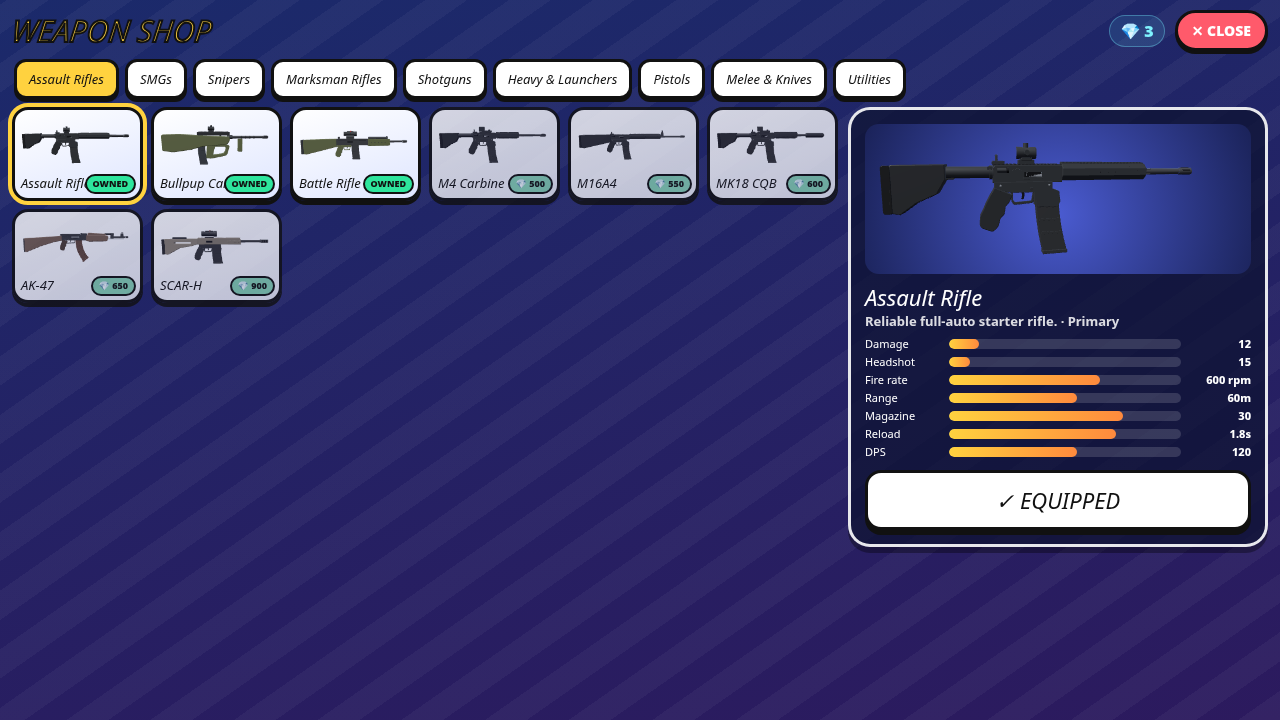
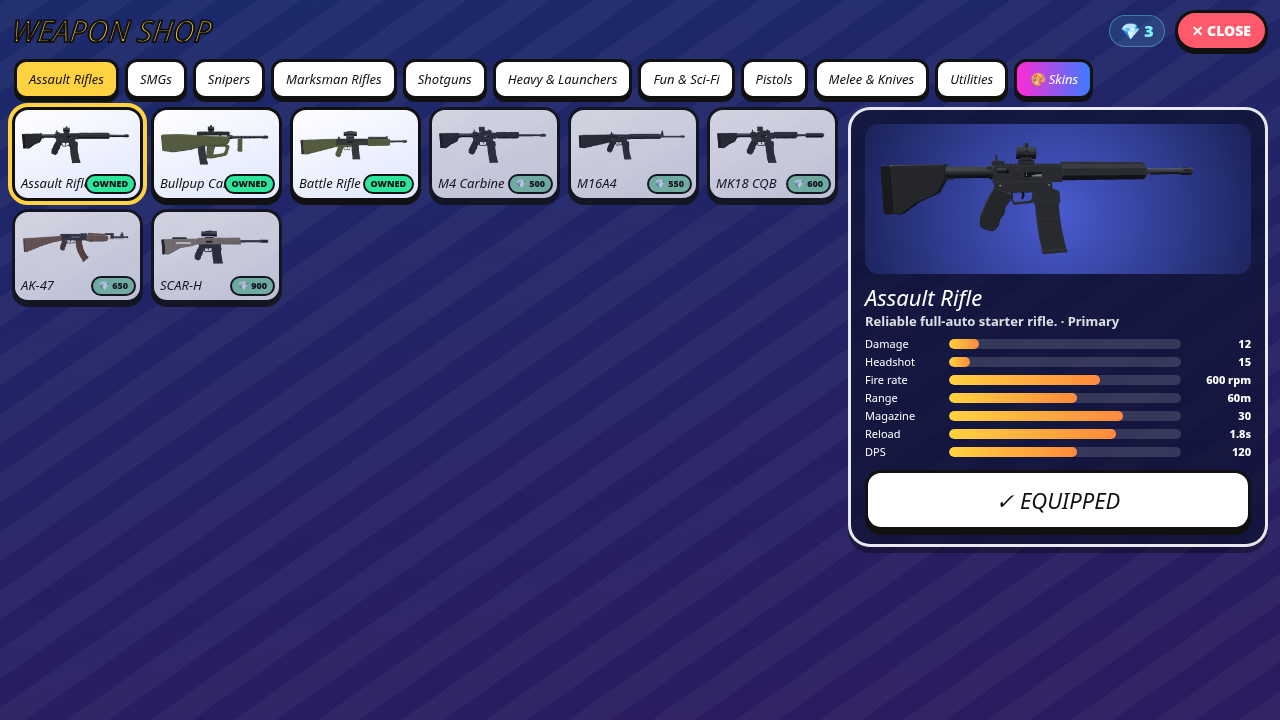
Friends: own storage key+backup with merge (no wallet overwrite), pending/added confirmations, retry delivery, presence backoff, persist(); Skins: cheaper, featured animated row, auto-equip, no fists, richer low-quality fallback; SW update forcing; SW v20

Changed region(s): [[0.5, 0.0611, 0.875, 0.1528]]

diff --git a/game.js b/game.js
@@ -1,6 +1,6 @@
 // HeadShotz – free browser multiplayer FPS. Three.js + PeerJS (host-authoritative star).
 import {THREE,FX,TX,MC,G,mergeParts,GQ,texMat,swapMats,WT,GRASS_T,scatterGrass,makeSky,RET,GLASS,camoTex} from './gfx.js';
-import {WSKINS,WSKIN_IDS,applySkin,tickSkins,clearSkinCache} from './wskins.js';
+import {WSKINS,WSKIN_IDS,WSKIN_FEAT,applySkin,tickSkins,clearSkinCache} from './wskins.js';
 import {Post} from './post.js';
 import {TURN} from './ice.js';
 import {MAPS,buildMap,HUB_PADS,HUB_ST,HUB_I,padCircles} from './maps.js';
@@ -68,7 +68,7 @@ let lastTouchEnd=0;document.addEventListener('touchend',e=>{const n=Date.now();i
 const isIOS=/iP(hone|ad|od)/.test(navigator.userAgent)||(navigator.platform==='MacIntel'&&navigator.maxTouchPoints>1);
 const standalone=navigator.standalone||matchMedia('(display-mode: standalone)').matches||matchMedia('(display-mode: fullscreen)').matches;
 if(isIOS&&!standalone)$('iosTip').classList.remove('hidden');
-if('serviceWorker' in navigator&&location.protocol==='https:')navigator.serviceWorker.register('sw.js').catch(()=>{});
+if('serviceWorker' in navigator&&location.protocol==='https:'){navigator.serviceWorker.register('sw.js',{updateViaCache:'none'}).then(r=>{r.update().catch(()=>{});setInterval(()=>r.update().catch(()=>{}),15*60000)}).catch(()=>{});let swR=false;const had=!!navigator.serviceWorker.controller;navigator.serviceWorker.addEventListener('controllerchange',()=>{if(!had||swR)return;swR=true;const go=()=>{if(!inGame)location.reload();else setTimeout(go,5000)};go()})}
 // ---------------- audio ----------------
 let AC=null,noiseBuf=null,master=null,verb=null;
 function audioInit(){if(AC){if(AC.state==='suspended')AC.resume();return}try{AC=new(window.AudioContext||window.webkitAudioContext)();
@@ -328,7 +328,8 @@ const UPG={mag:{name:'Extended Mag',per:.15,cost:[200,450]},reload:{name:'Fast H
 const WALLET_V=3;const PROG=(()=>{const base={v:WALLET_V,dia:0,owned:[],upg:{},camo:{},camos:{},skin:'default',skins:['default'],wskin:{},wskins:{},fr:null};let w=null;try{w=JSON.parse(LS('wallet')||'null')}catch(e){}
  if(!w||!w.v){let old={};try{old=JSON.parse(LS('prog')||'{}')||{}}catch(e){}w=Object.assign({},old,w||{});}
  const P=Object.assign(base,w);P.v=WALLET_V;P.dia=Math.max(0,P.dia|0);for(const k of['owned','skins'])if(!Array.isArray(P[k]))P[k]=[];for(const k of['upg','camo','camos','wskin','wskins'])if(!P[k]||typeof P[k]!=='object'||Array.isArray(P[k]))P[k]={};
- if(!P.fr||!P.fr.code){const A='ABCDEFGHJKLMNPQRSTUVWXYZ23456789';let c='';for(let i=0;i<8;i++)c+=A[Math.random()*A.length|0];P.fr={code:c.slice(0,4)+'-'+c.slice(4),list:[],inc:[],out:[]}}for(const k of['list','inc','out'])if(!Array.isArray(P.fr[k]))P.fr[k]=[];if(!P.skins.includes('default'))P.skins.push('default');LSS('wallet',JSON.stringify(P));return P})();
+if(!P.skins.includes('default'))P.skins.push('default');LSS('wallet',JSON.stringify(P));return P})();
+
 function saveProg(){PROG.v=WALLET_V;LSS('wallet',JSON.stringify(PROG));updDiaUI()}
 addEventListener('storage',e=>{if(e.key===LSP+'wallet'&&e.newValue){try{Object.assign(PROG,JSON.parse(e.newValue));updDiaUI()}catch(x){}}});
 const owns=id=>!W[id].price||PROG.owned.includes(id);
@@ -669,15 +670,15 @@ function renderArsenal(){const cls=CLASSES.filter(c=>arsMode!=='upgrade'||c.id!=
 // ---- weapon skins (per weapon): buy with diamonds, equip; shown on view model, preview and third-person guns ----
 let wskSel=null;const ownsSkin=(id,k)=>k==='default'||(PROG.wskins[id]||[]).includes(k);
 function sendWS(){if(inGame&&!C.hub)send({t:'ws',ws:cleanWS(PROG.wskin)})}
-function renderSkins(){const list=Object.values(W).filter(w=>w.cls!=='util'&&owns(w.id));$('arsDetail').classList.remove('hidden');
+function renderSkins(){const list=Object.values(W).filter(w=>w.cls!=='util'&&w.id!=='fists'&&owns(w.id));$('arsDetail').classList.remove('hidden');
  if(!arsSel||!list.some(w=>w.id===arsSel))arsSel=(list.find(w=>w.id===me.load[me.cur])||list.find(w=>me.load.includes(w.id))||list[0]).id;
- const cur=id=>PROG.wskin[id]||'default';if(!wskSel||!WSKINS[wskSel])wskSel=cur(arsSel);
+ const cur=id=>PROG.wskin[id]||'default';if(!wskSel||!WSKINS[wskSel]){wskSel=cur(arsSel);if(wskSel==='default')wskSel=WSKIN_FEAT[0]}
  $('arsGrid').innerHTML=list.map(w=>{const k=cur(w.id);return`<button class="wc${w.id===arsSel?' sel':''}" data-w="${w.id}"><img src="${ICON[w.id]||''}">${w.name}<span class="eq skinEq" style="background:${WSKINS[k][3]}">${WSKINS[k][0]}</span></button>`}).join('');
  const w=W[arsSel];$('arsName').textContent=w.name+' · '+WSKINS[wskSel][0];$('arsDesc').textContent=(WSKINS[wskSel][4]?'✨ Animated premium skin. ':'')+'Cosmetic only — everyone sees it on your gun.';$('arsStats').innerHTML='';
- $('arsUpg').innerHTML='<div class="wskins">'+WSKIN_IDS.map(k=>{const[n,p,,css,prem]=WSKINS[k];const o=ownsSkin(w.id,k);return`<button class="wsk${k===wskSel?' sel':''}${cur(w.id)===k?' on':''}${prem?' prem':''}" data-act="wsk" data-k="${k}"><span class="sw${prem?' anim':''}" style="background:${css}"></span><small>${n}</small><em>${cur(w.id)===k?'✓ ON':o?'OWNED':'💎'+p}</em></button>`}).join('')+'</div>';
+ const btn=k=>{const[n,p,,css,prem]=WSKINS[k];const o=ownsSkin(w.id,k);return`<button class="wsk${k===wskSel?' sel':''}${cur(w.id)===k?' on':''}${prem?' prem':''}" data-act="wsk" data-k="${k}"><span class="sw${prem?' anim':''}" style="background:${css}"></span><small>${n}</small><em>${cur(w.id)===k?'✓ ON':o?'OWNED':'💎'+p}</em></button>`};$('arsUpg').innerHTML='<div class="cardHead sm">✨ FEATURED · ANIMATED</div><div class="wskins feat">'+WSKIN_FEAT.map(btn).join('')+'</div><div class="cardHead sm">ALL SKINS</div><div class="wskins">'+WSKIN_IDS.filter(k=>!WSKINS[k][4]).map(btn).join('')+'</div>';
  const b=$('arsEquip');const o=ownsSkin(w.id,wskSel),p=WSKINS[wskSel][1];b.classList.remove('poor');
  if(!o){b.dataset.act='buywsk';b.textContent=PROG.dia>=p?`BUY 💎 ${p}`:`NEED 💎 ${p-PROG.dia} MORE`;b.classList.toggle('poor',PROG.dia<p);b.classList.add('yellow')}
- else{const on=cur(w.id)===wskSel;b.dataset.act='eqwsk';b.textContent=on?'✓ EQUIPPED':'EQUIP SKIN';b.classList.toggle('yellow',!on)}
+ else{const on=cur(w.id)===wskSel;b.dataset.act='eqwsk';b.textContent=on?(wskSel==='default'?'✓ FACTORY FINISH':'✓ EQUIPPED ON '+w.name.toUpperCase()):'EQUIP SKIN';b.classList.toggle('yellow',!on)}
  startPreview(arsSel,wskSel==='default'?null:wskSel)}
 function setWSkin(id,k){if(k==='default')delete PROG.wskin[id];else PROG.wskin[id]=k;saveProg();if(me.load[me.cur]===id&&inGame)setViewModel(id);sendWS()}
 function equip(w){me.load[w.slot]=w.id;LSS('load2',JSON.stringify(me.load));renderLoadoutMini();if(inGame&&!C.hub)feed(`${w.name} equipped — active on next spawn`);if(C.hub)hubEquip()}
@@ -1151,8 +1152,28 @@ addEventListener('keydown',e=>{if(e.code==='KeyE'&&C.phase==='hub'&&!$('stationB
 // Every save has a friend code (PROG.fr.code). While the game is open, the page registers a presence peer whose id is derived
 // from that code (PREFIX+'fr-'+code). Friends connect to it briefly to send requests/accepts/removals and to ask for status
 // (menu / hub / lobby / match with mode+map, room code, player count). No backend: unreachable presence = Offline.
-const FR=PROG.fr;const frPid=c=>PREFIX+'fr-'+String(c).replace(/[^A-Z0-9]/g,'');const normCode=c=>{c=String(c||'').toUpperCase().replace(/[^A-Z0-9]/g,'');return c.length===8?c.slice(0,4)+'-'+c.slice(4):null};
-let frPeer=null,frStat={},frPollT=null,frOpen=false;
+const frPid=c=>PREFIX+'fr-'+String(c).replace(/[^A-Z0-9]/g,'');const normCode=c=>{c=String(c||'').toUpperCase().replace(/[^A-Z0-9]/g,'');return c.length===8?c.slice(0,4)+'-'+c.slice(4):null};
+// Friends live under their OWN storage key (+ a backup key), never inside the wallet, so no other save can overwrite them.
+// Every write first re-reads storage and merges (newest entry per friend code wins; removals are kept as tombstones), so a stale
+// tab / back-forward-cached page / second window can't wipe newer data.
+const FRK='friends',FRB='friends_bak';const CATS=['list','inc','out'];
+function frRead(){for(const k of[FRK,FRB]){try{const o=JSON.parse(LS(k)||'null');if(o&&normCode(o.code))return o}catch(e){}}return null}
+function frMergeInto(d,s){if(!s)return d;if(normCode(s.code))d.code=s.code;d.rm=d.rm||{};for(const k in(s.rm||{}))d.rm[k]=Math.max(d.rm[k]||0,s.rm[k]);
+ const best={};for(const src of[d,s])for(const c of CATS)for(const e of(src[c]||[])){const code=normCode(e.code);if(!code)continue;const t=e.t||0;if(!best[code]||t>best[code].e.t||((t===best[code].e.t)&&CATS.indexOf(c)<CATS.indexOf(best[code].c)))best[code]={c,e:{...e,code,t}}}
+ for(const c of CATS)d[c]=[];for(const code in best){const{c,e}=best[code];if((d.rm[code]||0)>=e.t)continue;d[c].push(e)}return d}
+const FR=(()=>{let f=frRead();const w=PROG.fr;if(!f){f=w&&normCode(w.code)?{code:w.code,list:(w.list||[]).map(e=>({...e,t:1})),inc:(w.inc||[]).map(e=>({...e,t:1})),out:(w.out||[]).map(e=>({...e,t:1})),rm:{}}:null}
+ if(!f){const code=normCode(PROG.frCode)||(()=>{const A='ABCDEFGHJKLMNPQRSTUVWXYZ23456789';let c='';for(let i=0;i<8;i++)c+=A[Math.random()*A.length|0];return c.slice(0,4)+'-'+c.slice(4)})();f={code,list:[],inc:[],out:[],rm:{}}}
+ frMergeInto(f,{});return f})();
+delete PROG.fr;PROG.frCode=FR.code;
+let frPeer=null,frStat={},frPollT=null,frOpen=false,frBack=2000;
+setTimeout(()=>{frWrite();saveProg()},0);
+function frWrite(){const cur=frRead();if(cur&&cur.code!==FR.code&&normCode(cur.code))FR.code=cur.code;frMergeInto(FR,cur);const j=JSON.stringify({v:1,code:FR.code,list:FR.list,inc:FR.inc,out:FR.out,rm:FR.rm,at:Date.now()});LSS(FRK,j);LSS(FRB,j);if(PROG.frCode!==FR.code){PROG.frCode=FR.code;saveProg()}}
+function frReload(){frMergeInto(FR,frRead());if(frOpen)renderFriends();updFrBadge()}
+const frFind=(arr,c)=>arr.findIndex(f=>f.code===c);const frCat=c=>CATS.find(k=>frFind(FR[k],c)>=0)||null;
+// set a friend's state (list / inc / out) or remove (null); saved immediately
+function frSet(code,cat,name,extra){frWrite();const old=CATS.map(k=>FR[k][frFind(FR[k],code)]).find(Boolean);for(const k of CATS){const i=frFind(FR[k],code);if(i>=0)FR[k].splice(i,1)}
+ const now=Math.max(Date.now(),(old&&old.t||0)+1);if(cat)FR[cat].push({code,name:String(name||old&&old.name||code).slice(0,12),t:now,...(extra||{})});else{FR.rm[code]=now}frWrite();if(frOpen)renderFriends();updFrBadge()}
+function frSave(){frWrite();if(frOpen)renderFriends();updFrBadge()}
 function frName(){return(LS('name')||$('nameIn').value||'Player').slice(0,12)}
 function myStatus(){const lob=!$('lobby').classList.contains('hidden');
  if(C.hub)return{w:'hub',t:'In Hub',join:{hub:1}};
@@ -1160,34 +1181,41 @@ function myStatus(){const lob=!$('lobby').classList.contains('hidden');
  if(inGame)return{w:'practice',t:'Practice vs Bots',mode:C.mode,map:cur&&cur.def?cur.def.name:'',join:null};
  if(lob&&roomCode&&roomCode!=='OFFLINE'){const n=Object.values((isHost?H.players:C.players)||{}).filter(q=>!q.bot).length;return{w:'lobby',t:'In Lobby',n,mx:MAXP,join:n<MAXP?{room:roomCode}:null}}
  return{w:'menu',t:'In Menu',join:null}}
-const frFind=(arr,c)=>arr.findIndex(f=>f.code===c);
-function frSave(){saveProg();if(frOpen)renderFriends();updFrBadge()}
-function frServe(){if(frPeer||typeof Peer==='undefined')return;const p=new Peer(frPid(FR.code),{config:ICE,debug:0});frPeer=p;
- p.on('error',e=>{if(e.type==='unavailable-id'){/* another tab of this profile is already the presence */try{p.destroy()}catch(x){}frPeer=null;setTimeout(frServe,15000)}});
- p.on('disconnected',()=>{try{p.reconnect()}catch(e){}});
- p.on('connection',c=>{c.on('data',m=>{if(!m||typeof m!=='object')return;const code=normCode(m.code);if(!code||code===FR.code)return;const name=String(m.name||'Player').slice(0,12);let r={t:'ok'};
-  if(m.t==='req'){if(frFind(FR.list,code)>=0){r={t:'acc',code:FR.code,name:frName()}}else if(frFind(FR.out,code)>=0){FR.out.splice(frFind(FR.out,code),1);FR.list.push({code,name});r={t:'acc',code:FR.code,name:frName()};frSave();toast(`👥 ${name} is now your friend`)}else{if(frFind(FR.inc,code)<0){FR.inc.push({code,name});frSave();toast(`👥 Friend request from ${name}`)}r={t:'pend'}}}
-  else if(m.t==='acc'){const i=frFind(FR.out,code);if(i>=0){FR.out.splice(i,1);if(frFind(FR.list,code)<0)FR.list.push({code,name});frSave();toast(`👥 ${name} accepted your request`)}}
-  else if(m.t==='dec'){const i=frFind(FR.out,code);if(i>=0){FR.out.splice(i,1);frSave()}}
-  else if(m.t==='rm'){const i=frFind(FR.list,code);if(i>=0){FR.list.splice(i,1);delete frStat[code];frSave()}}
-  else if(m.t==='st'){r=frFind(FR.list,code)>=0?{t:'st',name:frName(),s:myStatus()}:{t:'st',s:null}}
+function frServe(){if(frPeer||typeof Peer==='undefined')return;const p=new Peer(frPid(FR.code),{config:ICE,debug:0});frPeer=p;let ok=false;
+ const retry=()=>{if(frPeer!==p)return;try{p.destroy()}catch(x){}frPeer=null;const d=frBack;frBack=Math.min(30000,frBack*2);setTimeout(frServe,d)};
+ p.on('open',()=>{ok=true;frBack=2000;window.__frOnline=true});
+ // id taken (old session not yet expired on the signalling server / another tab) or any other failure -> retry with backoff
+ p.on('error',e=>{if(e.type==='unavailable-id'||!ok||['network','server-error','socket-error','socket-closed'].includes(e.type))retry()});
+ p.on('disconnected',()=>{setTimeout(()=>{if(frPeer===p&&p.disconnected&&!p.destroyed){try{p.reconnect()}catch(e){retry()}}},1000)});p.on('close',retry);
+ p.on('connection',c=>{c.on('data',m=>{if(!m||typeof m!=='object')return;const code=normCode(m.code);if(!code||code===FR.code)return;frReload();const name=String(m.name||'Player').slice(0,12);let r={t:'ok'};const cat=frCat(code);
+  if(m.t==='req'){if(cat==='list'||cat==='out'){if(cat==='out')toast(`👥 ${name} is now your friend`);frSet(code,'list',name);r={t:'acc',code:FR.code,name:frName()}}else{if(cat!=='inc'){frSet(code,'inc',name);toast(`👥 Friend request from ${name}`)}r={t:'pend'}}}
+  else if(m.t==='acc'){if(cat==='out'||cat==='inc'||cat==='list'){if(cat!=='list')toast(`👥 ${name} accepted — you're friends!`);frSet(code,'list',name)}else if(!(FR.rm[code])){frSet(code,'list',name)}r={t:'ok'}}
+  else if(m.t==='dec'){if(cat==='out')frSet(code,null)}
+  else if(m.t==='rm'){if(cat){frSet(code,null);delete frStat[code]}}
+  else if(m.t==='st'){r=cat==='list'?{t:'st',name:frName(),s:myStatus()}:{t:'st',s:null,rel:cat==='out'?'req':cat==='inc'?'pend':null}}
   try{c.send(r)}catch(e){}setTimeout(()=>{try{c.close()}catch(e){}},400)})})}
+function frRevive(){frReload();if(!frPeer||frPeer.destroyed||frPeer.disconnected){if(frPeer&&frPeer.disconnected&&!frPeer.destroyed){try{frPeer.reconnect()}catch(e){}}else{frPeer=null;frBack=2000;frServe()}}frPoll()}
+addEventListener('visibilitychange',()=>{if(!document.hidden)frRevive()});addEventListener('pageshow',e=>{if(e.persisted)frRevive()});addEventListener('focus',()=>frReload());
+try{navigator.storage&&navigator.storage.persist&&navigator.storage.persist()}catch(e){}
 // one short request to a friend's presence; resolves with reply or null (offline)
-const frNet=()=>{if(!window.__frc){window.__frc=new Peer({config:ICE,debug:0});window.__frc.on('error',()=>{});window.__frc.on('disconnected',()=>{try{window.__frc.reconnect()}catch(e){}})}return window.__frc};
-function frAsk(code,msg){return new Promise(res=>{let done=false;const fin=v=>{if(done)return;done=true;clearTimeout(to);try{c&&c.close()}catch(e){}res(v)};let c=null;const to=setTimeout(()=>fin(null),4500);
+const frNet=()=>{if(!window.__frc||window.__frc.destroyed){window.__frc=new Peer({config:ICE,debug:0});window.__frc.on('error',()=>{});window.__frc.on('disconnected',()=>{try{window.__frc.reconnect()}catch(e){}})}return window.__frc};
+function frAsk(code,msg){return new Promise(res=>{let done=false;const fin=v=>{if(done)return;done=true;clearTimeout(to);try{c&&c.close()}catch(e){}res(v)};let c=null;const to=setTimeout(()=>fin(null),msg.t==='st'?9000:15000);
  const go=()=>{c=frNet().connect(frPid(code),{reliable:true,serialization:'json'});c.on('open',()=>c.send({...msg,code:FR.code,name:frName()}));c.on('data',d=>fin(d));c.on('close',()=>fin(null));c.on('error',()=>fin(null))};
- const n=frNet();if(n.open)go();else n.on("open",go)})}
-async function frPoll(){for(const f of FR.out.filter(f=>!f.sent||Date.now()-f.sent>60000)){const r=await frAsk(f.code,{t:'req'});if(r){f.sent=Date.now();if(r.t==='acc'){const i=frFind(FR.out,f.code);if(i>=0)FR.out.splice(i,1);if(frFind(FR.list,f.code)<0)FR.list.push({code:f.code,name:r.name||f.name});toast(`👥 ${r.name||f.name} accepted your request`)}frSave()}}
- for(const f of FR.list.filter(f=>f.pendAcc)){const r=await frAsk(f.code,{t:'acc'});if(r){delete f.pendAcc;frSave()}}
- for(const f of FR.list.filter(f=>f.pendRm)){}
- await Promise.all(FR.list.map(async f=>{const r=await frAsk(f.code,{t:'st'});frStat[f.code]=r&&r.s?{...r.s,at:Date.now()}:null;if(r&&r.name&&r.name!==f.name){f.name=r.name;saveProg()}}));if(frOpen)renderFriends();updFrBadge()}
-function frSchedule(){clearTimeout(frPollT);frPollT=setTimeout(async()=>{try{await frPoll()}catch(e){}frSchedule()},frOpen?5000:25000)}
-function frAdd(raw){const code=normCode(raw);if(!code)return frMsg('Friend codes look like ABCD-1234');if(code===FR.code)return frMsg("That's your own code 🙂");if(frFind(FR.list,code)>=0)return frMsg('Already friends');
- const ii=frFind(FR.inc,code);if(ii>=0)return frAccept(code);if(frFind(FR.out,code)<0)FR.out.push({code,name:code});frSave();frMsg('Request sent — it arrives when they are online');
- frAsk(code,{t:'req'}).then(r=>{const f=FR.out.find(f=>f.code===code);if(!r||!f)return;f.sent=Date.now();if(r.t==='acc'){FR.out.splice(FR.out.indexOf(f),1);if(frFind(FR.list,code)<0)FR.list.push({code,name:r.name||code});toast('👥 You are now friends')}frSave();frPoll()})}
-function frAccept(code){const i=frFind(FR.inc,code);if(i<0)return;const f=FR.inc.splice(i,1)[0];FR.list.push({code,name:f.name,pendAcc:1});frSave();frAsk(code,{t:'acc'}).then(r=>{if(r){const g=FR.list.find(x=>x.code===code);if(g)delete g.pendAcc;frSave()}frPoll()})}
-function frDecline(code){const i=frFind(FR.inc,code);if(i<0)return;FR.inc.splice(i,1);frSave();frAsk(code,{t:'dec'})}
-function frRemove(code){const i=frFind(FR.list,code);if(i>=0){FR.list.splice(i,1);delete frStat[code];frSave();frAsk(code,{t:'rm'})}const j=frFind(FR.out,code);if(j>=0){FR.out.splice(j,1);frSave()}}
+ const n=frNet();if(n.open)go();else n.on('open',go)})}
+let frBusy=false;
+async function frPoll(){if(frBusy)return;frBusy=true;try{frReload();
+ // keep re-sending pending requests and accepts until the other side has them
+ for(const f of FR.out.slice()){const r=await frAsk(f.code,{t:'req'});if(r&&r.t==='acc'){frSet(f.code,'list',r.name||f.name);toast(`👥 ${r.name||f.name} accepted — you're friends!`)}else if(r){const g=FR.out.find(x=>x.code===f.code);if(g&&!g.del){g.del=1;frSave()}}}
+ for(const f of FR.list.filter(f=>f.pendAcc)){const r=await frAsk(f.code,{t:'acc'});if(r){const g=FR.list.find(x=>x.code===f.code);if(g){delete g.pendAcc;frSave()}}}
+ await Promise.all(FR.list.map(async f=>{const r=await frAsk(f.code,{t:'st'});frStat[f.code]=r&&r.s?{...r.s,at:Date.now()}:null;if(r&&r.name&&r.name!==f.name){const g=FR.list.find(x=>x.code===f.code);if(g){g.name=r.name;frSave()}}}));
+ if(frOpen)renderFriends();updFrBadge()}finally{frBusy=false}}
+function frSchedule(){clearTimeout(frPollT);frPollT=setTimeout(async()=>{try{await frPoll()}catch(e){}frSchedule()},frOpen?5000:20000)}
+function frAdd(raw){const code=normCode(raw);if(!code)return frMsg('Friend codes look like ABCD-1234');if(code===FR.code)return frMsg("That's your own code 🙂");const cat=frCat(code);if(cat==='list')return frMsg('Already friends ✓');
+ if(cat==='inc')return frAccept(code);frSet(code,'out',code);frMsg('📨 Request sent! Saved — it shows as Pending until they accept.');toast('📨 Friend request sent');
+ frAsk(code,{t:'req'}).then(r=>{if(r&&r.t==='acc'){frSet(code,'list',r.name||code);frMsg('✅ Added! You are now friends.');toast('✅ Friend added!')}else if(r){const g=FR.out.find(x=>x.code===code);if(g){g.del=1;frSave()}}frPoll()})}
+function frAccept(code){const f=FR.inc.find(x=>x.code===code);if(!f)return;frSet(code,'list',f.name,{pendAcc:1});frMsg(`✅ Added ${f.name}!`);toast(`✅ ${f.name} added as a friend`);frAsk(code,{t:'acc'}).then(r=>{if(r){const g=FR.list.find(x=>x.code===code);if(g){delete g.pendAcc;frSave()}}frPoll()})}
+function frDecline(code){if(frCat(code)!=='inc')return;frSet(code,null);frAsk(code,{t:'dec'})}
+function frRemove(code){if(!frCat(code))return;frSet(code,null);delete frStat[code];frAsk(code,{t:'rm'})}
 function frJoin(code){const s=frStat[code];if(!s||!s.join)return;const nl=/[?&]net=local/.test(location.search)?'&net=local':'';
  if(s.join.hub){if(C.hub)return frMsg('You are already in the hub');location.href=hubUrl();return}if(s.join.room){if(inGame||!$('lobby').classList.contains('hidden')){location.href=location.pathname+'?join='+s.join.room+nl}else{closeFriends();joinRoom(s.join.room)}}}
 function frMsg(t){const m=$('frMsg');if(m)m.textContent=t}
@@ -1197,7 +1225,7 @@ function renderFriends(){$('frCode').textContent=FR.code;$('frMe').textContent=f
  const L=FR.list.slice().sort((a,b)=>(frStat[b.code]?1:0)-(frStat[a.code]?1:0));
  $('frList').innerHTML=(L.length?L.map(f=>{const s=frStat[f.code];return`<div class="frRow" data-code="${f.code}"><div class="frWho"><b>${esc(f.name)}</b><small>${f.code}</small></div><div class="frSt">${f.code in frStat?stText(s):'<span class="off">● checking…</span>'}</div>
   <button class="pill ${s&&s.join?'yellow':'poor'}" data-fr="join" ${s&&s.join?'':'disabled'}>${s&&s.join&&s.join.hub?'GO TO HUB':'JOIN'}</button><button class="pill red sm" data-fr="rm" title="Remove">✕</button></div>`}).join(''):'<p class="msg">No friends yet — share your code or add theirs.</p>');
- $('frInc').innerHTML=FR.inc.map(f=>`<div class="frRow" data-code="${f.code}"><div class="frWho"><b>${esc(f.name)}</b><small>${f.code}</small></div><span class="frSt">wants to be friends</span><button class="pill green" data-fr="acc">ACCEPT</button><button class="pill red sm" data-fr="dec">DECLINE</button></div>`).join('')+FR.out.map(f=>`<div class="frRow out" data-code="${f.code}"><div class="frWho"><b>${esc(f.name)}</b><small>${f.code}</small></div><span class="frSt">request sent…</span><button class="pill red sm" data-fr="rm">CANCEL</button></div>`).join('');
+ $('frInc').innerHTML=FR.inc.map(f=>`<div class="frRow" data-code="${f.code}"><div class="frWho"><b>${esc(f.name)}</b><small>${f.code}</small></div><span class="frSt">wants to be friends</span><button class="pill green" data-fr="acc">ACCEPT</button><button class="pill red sm" data-fr="dec">DECLINE</button></div>`).join('')+FR.out.map(f=>`<div class="frRow out" data-code="${f.code}"><div class="frWho"><b>${esc(f.name)}</b><small>${f.code}</small></div><span class="frSt">⏳ Pending${f.del?' · delivered':' · sends when they are online'}</span><button class="pill red sm" data-fr="rm">CANCEL</button></div>`).join('');
  $('frReqHead').classList.toggle('hidden',!FR.inc.length&&!FR.out.length)}
 function updFrBadge(){const n=FR.inc.length;document.querySelectorAll('.frBadge').forEach(b=>{b.textContent=n||'';b.classList.toggle('hidden',!n)});const on=FR.list.filter(f=>frStat[f.code]).length;document.querySelectorAll('.frOnline').forEach(b=>b.textContent=FR.list.length?`${on}/${FR.list.length} online`:'Add friends by code')}
 function openFriends(){audioInit&&audioInit();frOpen=true;$('friends').classList.remove('hidden');renderFriends();frMsg('');frPoll();frSchedule()}
@@ -1207,9 +1235,9 @@ $('frClose').onclick=closeFriends;$('frAddBtn').onclick=()=>{frAdd($('frIn').val
 $('frCopy').onclick=async()=>{try{await navigator.clipboard.writeText(FR.code);frMsg('Code copied!')}catch(e){frMsg('Your code: '+FR.code)}};
 $('friends').addEventListener('click',e=>{const b=e.target.closest('[data-fr]');if(!b)return;const code=b.closest('[data-code]').dataset.code;const a=b.dataset.fr;if(a==='join')frJoin(code);else if(a==='rm')frRemove(code);else if(a==='acc')frAccept(code);else if(a==='dec')frDecline(code)});
 for(const id of['openFriends','lobFriends','pFriends','hubFriends'])if($(id))$(id).onclick=openFriends;
-addEventListener('storage',e=>{if(e.key===LSP+'wallet'&&e.newValue){try{const w=JSON.parse(e.newValue);if(w.fr){Object.assign(FR,w.fr);PROG.fr=FR;if(frOpen)renderFriends();updFrBadge()}}catch(x){}}});
+addEventListener('storage',e=>{if(e.key===LSP+FRK)frReload()});
 setTimeout(()=>{frServe();frSchedule();updFrBadge();if(FR.list.length||FR.out.length)setTimeout(frPoll,1500)},800);
-window.__hsz={FRIENDS:()=>({FR,frStat,myStatus:myStatus(),frPoll,frAdd,frAccept,frRemove,frJoin}),inp,PROG,shootAt:(pid)=>{const q=(H&&H.players[pid])||C.players[pid];if(!q||!me.alive)return 'na';let p=(q.e&&q.e.pos)||q.pos;if(Array.isArray(p))p={x:p[0],y:p[1],z:p[2]};if(!p&&q.p)p={x:q.p[0],y:q.p[1],z:q.p[2]};if(!p||!isFinite(p.x))return 'nopos';const e=new THREE.Vector3(me.pos.x,me.pos.y+1.62,me.pos.z);const dx=p.x-e.x,dy=(p.y+1.3)-e.y,dz=p.z-e.z;me.yaw=Math.atan2(-dx,-dz);me.pitch=Math.atan2(dy,Math.hypot(dx,dz));camera.position.copy(e);camera.rotation.set(me.pitch,me.yaw,0,'YXZ');camera.updateMatrixWorld();me.cool=0;fire();return 'ok'},gunGroup,THREE,endGo:(a)=>endGo(a),damage:(...a)=>damage(...a),VA,reload,setViewModel,get vmCur(){return vmCur},fireTest:(id)=>{const o=window.__spy;const realSend=send;setViewModel(id);camera.position.set(me.pos.x,me.pos.y+1.62,me.pos.z);camera.rotation.set(me.pitch,me.yaw,0);camera.updateMatrixWorld();__spyOn=o;try{fire()}finally{__spyOn=null}},C,H,me,send,W,MAPS,buildMap,fpsLog,renderer,get isHost(){return isHost},get cols(){return cols},setCols:(c)=>{cols=c},roundSpawns,respawnPoint,switchTo,fire,useUtil,setLoad:(l)=>{me.load=l},toggleZoom,camera,get paused(){return paused},get qLevel(){return qLevel()},S,applyQuality,get cur(){return cur}};
+window.__hsz={vmSkin:()=>{let k=null;if(vmCur)vmCur.traverse(o=>{if(o.material&&o.material.userData&&o.material.userData.skin)k=o.material.userData.skin});return k},vmId:()=>me.load[me.cur],FRIENDS:()=>({frPeerOpen:!!(frPeer&&frPeer.open),FR,frStat,myStatus:myStatus(),frPoll,frAdd,frAccept,frRemove,frJoin}),inp,PROG,shootAt:(pid)=>{const q=(H&&H.players[pid])||C.players[pid];if(!q||!me.alive)return 'na';let p=(q.e&&q.e.pos)||q.pos;if(Array.isArray(p))p={x:p[0],y:p[1],z:p[2]};if(!p&&q.p)p={x:q.p[0],y:q.p[1],z:q.p[2]};if(!p||!isFinite(p.x))return 'nopos';const e=new THREE.Vector3(me.pos.x,me.pos.y+1.62,me.pos.z);const dx=p.x-e.x,dy=(p.y+1.3)-e.y,dz=p.z-e.z;me.yaw=Math.atan2(-dx,-dz);me.pitch=Math.atan2(dy,Math.hypot(dx,dz));camera.position.copy(e);camera.rotation.set(me.pitch,me.yaw,0,'YXZ');camera.updateMatrixWorld();me.cool=0;fire();return 'ok'},gunGroup,THREE,endGo:(a)=>endGo(a),damage:(...a)=>damage(...a),VA,reload,setViewModel,get vmCur(){return vmCur},fireTest:(id)=>{const o=window.__spy;const realSend=send;setViewModel(id);camera.position.set(me.pos.x,me.pos.y+1.62,me.pos.z);camera.rotation.set(me.pitch,me.yaw,0);camera.updateMatrixWorld();__spyOn=o;try{fire()}finally{__spyOn=null}},C,H,me,send,W,MAPS,buildMap,fpsLog,renderer,get isHost(){return isHost},get cols(){return cols},setCols:(c)=>{cols=c},roundSpawns,respawnPoint,switchTo,fire,useUtil,setLoad:(l)=>{me.load=l},toggleZoom,camera,get paused(){return paused},get qLevel(){return qLevel()},S,applyQuality,get cur(){return cur}};
 
 // ---- fullscreen: Fullscreen API where it exists (Android Chrome, iPad Safari, desktop); iPhone Safari gets an Add-to-Home-Screen guide
 const FS={api:!!(document.documentElement.requestFullscreen||document.documentElement.webkitRequestFullscreen),

diff --git a/wskins.js b/wskins.js
@@ -4,16 +4,16 @@ import {THREE,GQ,camoTex} from './gfx.js';
 // key: [name, price, kind, swatch css, premium]
 export const WSKINS={
  default:['Factory',0,'none','linear-gradient(135deg,#555,#999)'],
- carbon:['Carbon Fiber',450,'shader','repeating-linear-gradient(45deg,#111 0 4px,#2b2b2b 4px 8px)'],
- tiger:['Tiger Camo',500,'camo','linear-gradient(120deg,#d07a1e 30%,#222 30% 40%,#d07a1e 40% 70%,#222 70% 80%,#d07a1e 80%)'],
- ice:['Glacier Ice',800,'std','linear-gradient(135deg,#e8f8ff,#7fd3ff 60%,#3a8fc0)'],
- toxic:['Toxic',900,'shader','radial-gradient(circle at 30% 30%,#c6ff3a,#3c9a12 60%,#14300a)'],
- neon:['Neon Pulse',1000,'shader','linear-gradient(135deg,#0b0b1a,#ff2bd6 45%,#28f0ff 55%,#0b0b1a)'],
- gold:['Solid Gold',1200,'std','linear-gradient(135deg,#fff1a8,#e8b923 45%,#9a6b0c)'],
- lightning:['Lightning',2000,'shader','linear-gradient(135deg,#0a1030,#3a7bff 50%,#e8f4ff 52%,#0a1030)',1],
- fire:['Inferno',2500,'shader','linear-gradient(0deg,#3a0500,#ff3c00 45%,#ffb000 75%,#fff3a0)',1],
- galaxy:['Galaxy',3000,'shader','radial-gradient(circle at 60% 40%,#ff7ad9,#6a2bd1 35%,#120a3a 70%,#05030f)',1]};
-export const WSKIN_IDS=Object.keys(WSKINS);
+ carbon:['Carbon Fiber',250,'shader','repeating-linear-gradient(45deg,#111 0 4px,#2b2b2b 4px 8px)'],
+ tiger:['Tiger Camo',300,'camo','linear-gradient(120deg,#d07a1e 30%,#222 30% 40%,#d07a1e 40% 70%,#222 70% 80%,#d07a1e 80%)'],
+ ice:['Glacier Ice',400,'std','linear-gradient(135deg,#e8f8ff,#7fd3ff 60%,#3a8fc0)'],
+ toxic:['Toxic',450,'shader','radial-gradient(circle at 30% 30%,#c6ff3a,#3c9a12 60%,#14300a)'],
+ neon:['Neon Pulse',500,'shader','linear-gradient(135deg,#0b0b1a,#ff2bd6 45%,#28f0ff 55%,#0b0b1a)'],
+ gold:['Solid Gold',600,'std','linear-gradient(135deg,#fff1a8,#e8b923 45%,#9a6b0c)'],
+ lightning:['Lightning',900,'shader','linear-gradient(135deg,#0a1030,#3a7bff 50%,#e8f4ff 52%,#0a1030)',1],
+ fire:['Inferno',1100,'shader','linear-gradient(0deg,#3a0500,#ff3c00 45%,#ffb000 75%,#fff3a0)',1],
+ galaxy:['Galaxy',1300,'shader','radial-gradient(circle at 60% 40%,#ff7ad9,#6a2bd1 35%,#120a3a 70%,#05030f)',1]};
+export const WSKIN_IDS=Object.keys(WSKINS);export const WSKIN_FEAT=WSKIN_IDS.filter(k=>WSKINS[k][4]);
 export const skinU={uT:{value:0}};
 export function tickSkins(t){skinU.uT.value=t%600}
 const VS=`varying vec3 vP;varying vec3 vN;varying vec3 vV;
@@ -37,7 +37,7 @@ export function skinMat(key){const lo=GQ.level==='low';const ck=key+(lo?'_lo':''
  if(key==='gold')m=new THREE.MeshStandardMaterial({color:0xffc93c,metalness:.6,roughness:.26,emissive:0x5a3a00,emissiveIntensity:.7});
  else if(key==='ice')m=new THREE.MeshStandardMaterial({color:0xdaf5ff,metalness:.25,roughness:.1,emissive:0x2f7aa6,emissiveIntensity:.75});
  else if(key==='tiger')m=new THREE.MeshStandardMaterial({map:camoTex(0xd07a1e),metalness:.15,roughness:.6});
- else{const fs=`uniform float uT;varying vec3 vP;varying vec3 vN;varying vec3 vV;#define OCT ${lo?1:(key==='fire'?3:2)}\n#define STARS ${lo?'0.6':'1.0'}\n`.replace('#define','\n#define')+NOISE+FS[key].replace(/gl_FragColor=vec4\(c,1\.\);\}$/,'gl_FragColor=vec4(c,1.);\n#include <tonemapping_fragment>\n#include <colorspace_fragment>\n}');
+ else{const fs=`uniform float uT;varying vec3 vP;varying vec3 vN;varying vec3 vV;#define OCT ${lo?2:(key==='fire'?3:2)}\n#define STARS ${lo?'0.6':'1.0'}\n`.replace('#define','\n#define')+NOISE+FS[key].replace(/gl_FragColor=vec4\(c,1\.\);\}$/,'gl_FragColor=vec4(c,1.);\n#include <tonemapping_fragment>\n#include <colorspace_fragment>\n}');
   m=new THREE.ShaderMaterial({uniforms:skinU,vertexShader:VS,fragmentShader:fs});m.userData.anim=1}
  m.userData.skin=key;return cache[ck]=m}
 export function clearSkinCache(){for(const k in cache)delete cache[k]}

diff --git a/sw.js b/sw.js
@@ -1,8 +1,8 @@
 // Network-first service worker: always try fresh files (so updates show), fall back to cache offline.
-const CACHE='headshotz-v19';
+const CACHE='headshotz-v20';
 const ASSETS=['./','index.html','style.css','game.js','maps.js','maps2.js','wskins.js','gfx.js','weapons.js','chars.js','post.js','ice.js','manifest.json','lib/three.module.min.js','lib/peerjs.min.js','lib/localpeer.js','icons/icon-180.png','icons/icon-192.png','icons/icon-512.png'];
 self.addEventListener('install',e=>{self.skipWaiting();e.waitUntil(caches.open(CACHE).then(c=>c.addAll(ASSETS)).catch(()=>{}))});
 self.addEventListener('activate',e=>e.waitUntil(caches.keys().then(k=>Promise.all(k.filter(n=>n!==CACHE).map(n=>caches.delete(n)))).then(()=>self.clients.claim())));
 self.addEventListener('fetch',e=>{const u=new URL(e.request.url);if(e.request.method!=='GET'||u.origin!==location.origin)return;
- e.respondWith(fetch(e.request).then(r=>{if(r.ok){const cp=r.clone();caches.open(CACHE).then(c=>c.put(u.search?new Request(u.pathname):e.request,cp))}return r})
+ e.respondWith(fetch(e.request,{cache:'no-cache'}).then(r=>{if(r.ok){const cp=r.clone();caches.open(CACHE).then(c=>c.put(u.search?new Request(u.pathname):e.request,cp))}return r})
   .catch(()=>caches.match(e.request,{ignoreSearch:true}).then(r=>r||caches.match('index.html'))))});

diff --git a/index.html b/index.html
@@ -88,7 +88,7 @@
 <div id="friends" class="screen bgfx2 hidden"><div class="wrap">
  <div class="lobbyBar"><div class="roomChip">👥 FRIENDS</div><button id="frClose" class="pill red">✕ CLOSE</button></div>
  <div class="frGrid">
-  <div class="card"><div class="cardHead sm">YOUR FRIEND CODE</div><div class="frCodeBox"><b id="frCode"></b><button id="frCopy" class="pill">📋 COPY</button></div><small>Playing as <b id="frMe"></b>. Share this code so friends can add you.</small>
+  <div class="card"><div class="cardHead sm">YOUR FRIEND CODE</div><div class="frCodeBox"><b id="frCode"></b><button id="frCopy" class="pill">📋 COPY</button></div><small>Playing as <b id="frMe"></b>. Share this code so friends can add you.</small><small class="frNote">On iPhone the Home Screen app and Safari keep separate saves — add friends in the one you play.</small>
    <div class="cardHead sm">ADD A FRIEND</div><div class="joinRow"><input id="frIn" maxlength="9" placeholder="ABCD-1234" autocomplete="off"><button id="frAddBtn" class="btnBig blue">ADD</button></div><p id="frMsg" class="msg"></p>
    <div id="frReqHead" class="cardHead sm hidden">REQUESTS</div><div id="frInc"></div></div>
   <div class="card wide"><div class="cardHead sm">FRIENDS</div><div id="frList"></div></div>

diff --git a/style.css b/style.css
@@ -238,3 +238,5 @@ html,body{height:100%;height:100dvh}
 .frRow button[disabled]{opacity:.45}.frBadge{display:inline-block;min-width:16px;padding:0 4px;margin-left:3px;border-radius:9px;background:#ff3b5c;color:#fff;font-size:11px;font-style:normal;line-height:16px;vertical-align:top}
 #hubFriends{position:absolute;right:62px;top:10px;pointer-events:auto}
 .toast{position:fixed;left:50%;top:14px;transform:translateX(-50%);background:#1b2230ee;color:#fff;padding:10px 16px;border-radius:12px;border:2px solid #ffd54a;z-index:200;font-weight:800;transition:opacity .5s}.toast.out{opacity:0}
+.frNote{display:block;opacity:.6;font-size:11px;margin-top:4px}
+.wskins.feat{grid-template-columns:repeat(3,1fr)}.wskins.feat .wsk .sw{width:100%;height:42px}.wskins.feat .wsk small{font-size:12px;font-weight:800}
